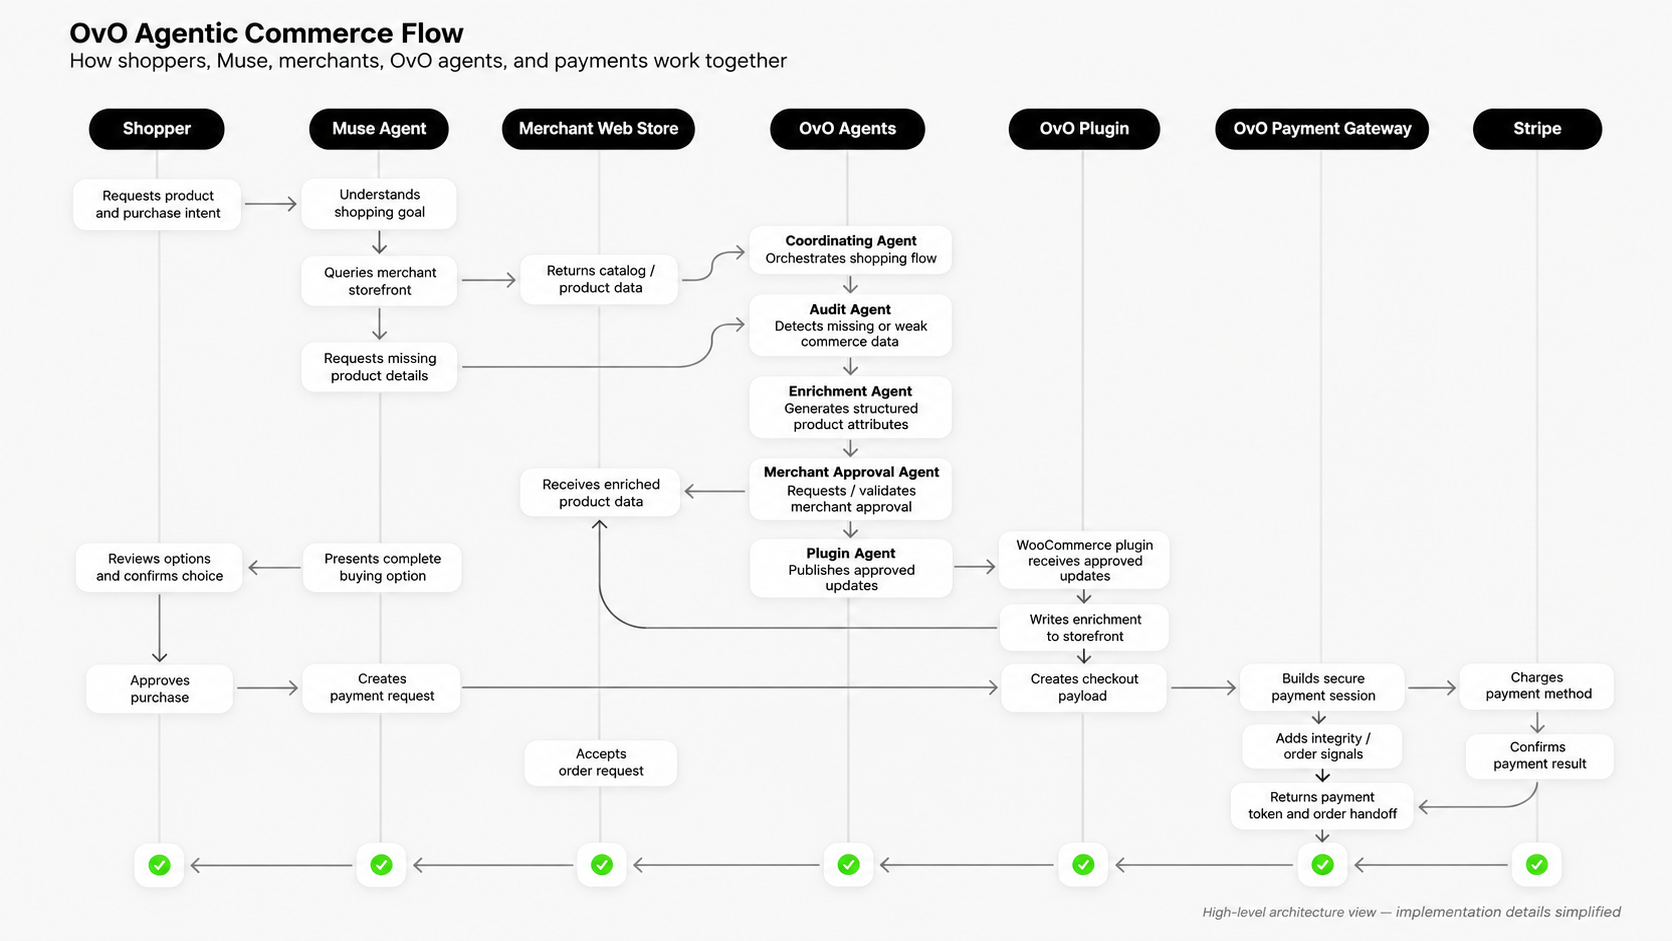
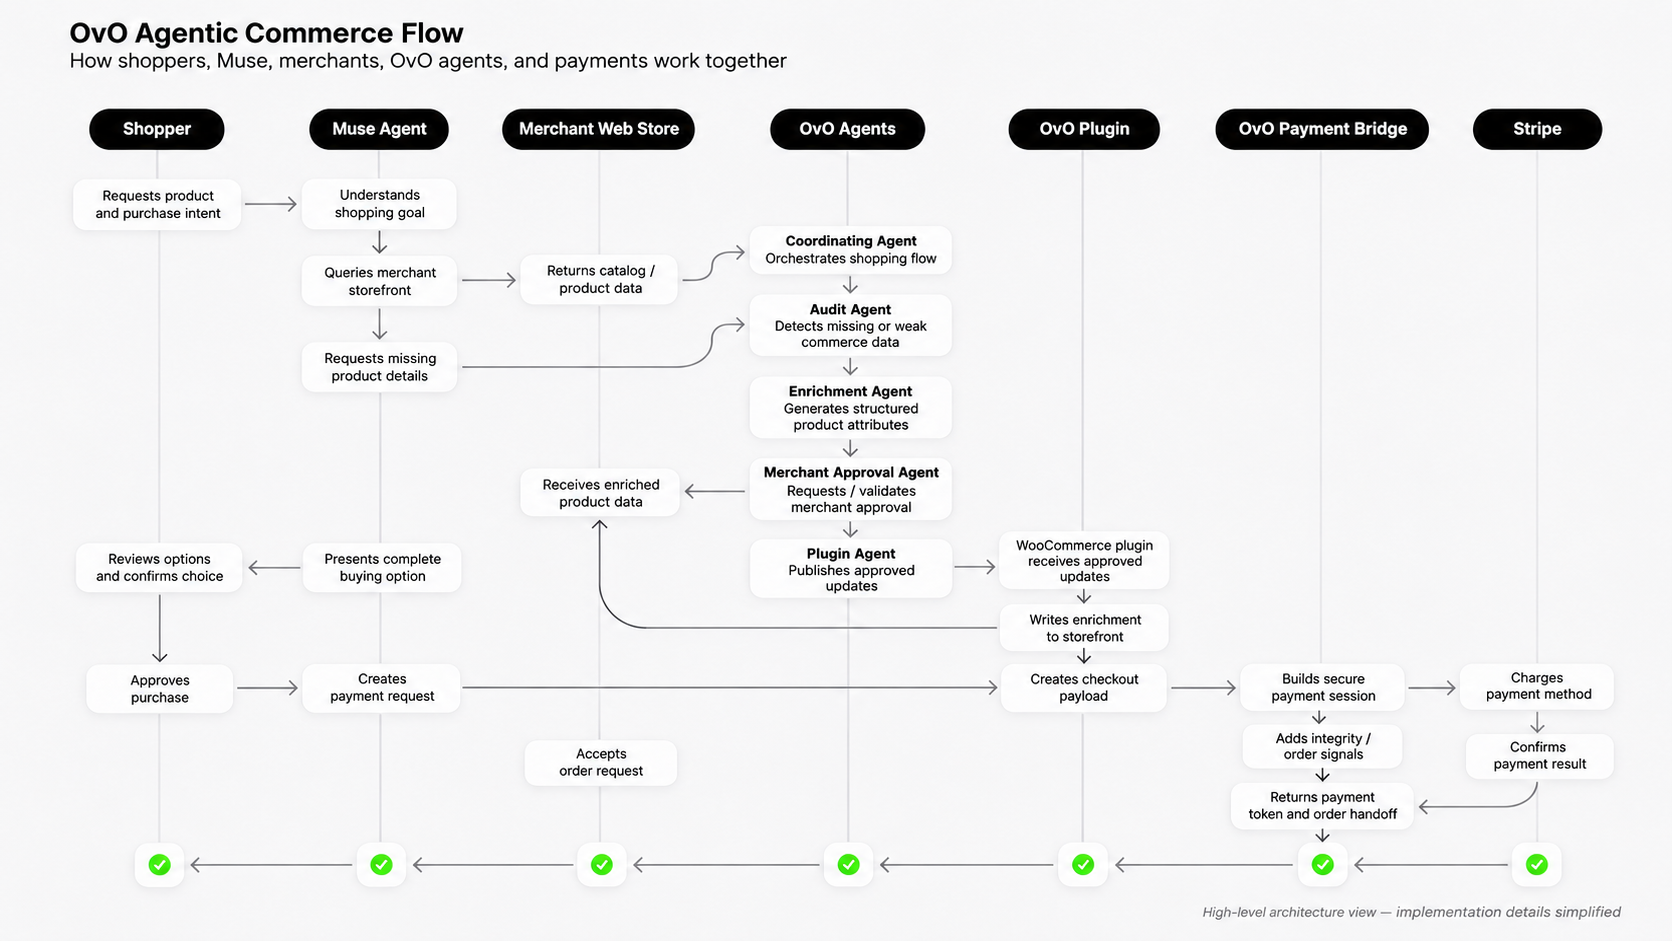
Replace flow diagram with corrected OvO Payment Bridge label, update caption

diff --git a/README.md b/README.md
@@ -77,7 +77,7 @@ The diagram below is a high level flow. It is simplified, and it is not a code d
 
 ![OvO Agentic Commerce Flow](assets/OvO_Agentic_Commerce_Flow_Diagram.png)
 
-Caption: This flow shows the intended roles, not the exact code path. In the live demo, the agent must verify material, fit, returns, stock, and the exact total from structured data before any payment, and must stop with no payment and no order if any of those are missing. There is no separate OvO Payment Gateway. The bridge plugin calls Stripe, through the merchant Stripe account, in test mode only, and creates a WooCommerce order only after Stripe confirms. Real Link payment is not shown as a proven step, because it is not proven yet.
+Caption: This flow shows the intended roles, not the exact code path. In the live demo, the agent must verify material, fit, returns, stock, and the exact total from structured data before any payment, and must stop with no payment and no order if any of those are missing. The OvO Payment Bridge calls Stripe, through the merchant Stripe account, in test mode only, and creates a WooCommerce order only after Stripe confirms. Real Link payment is not shown as a proven step, because it is not proven yet.
 
 ## Meta AI implementation, MVP
 
